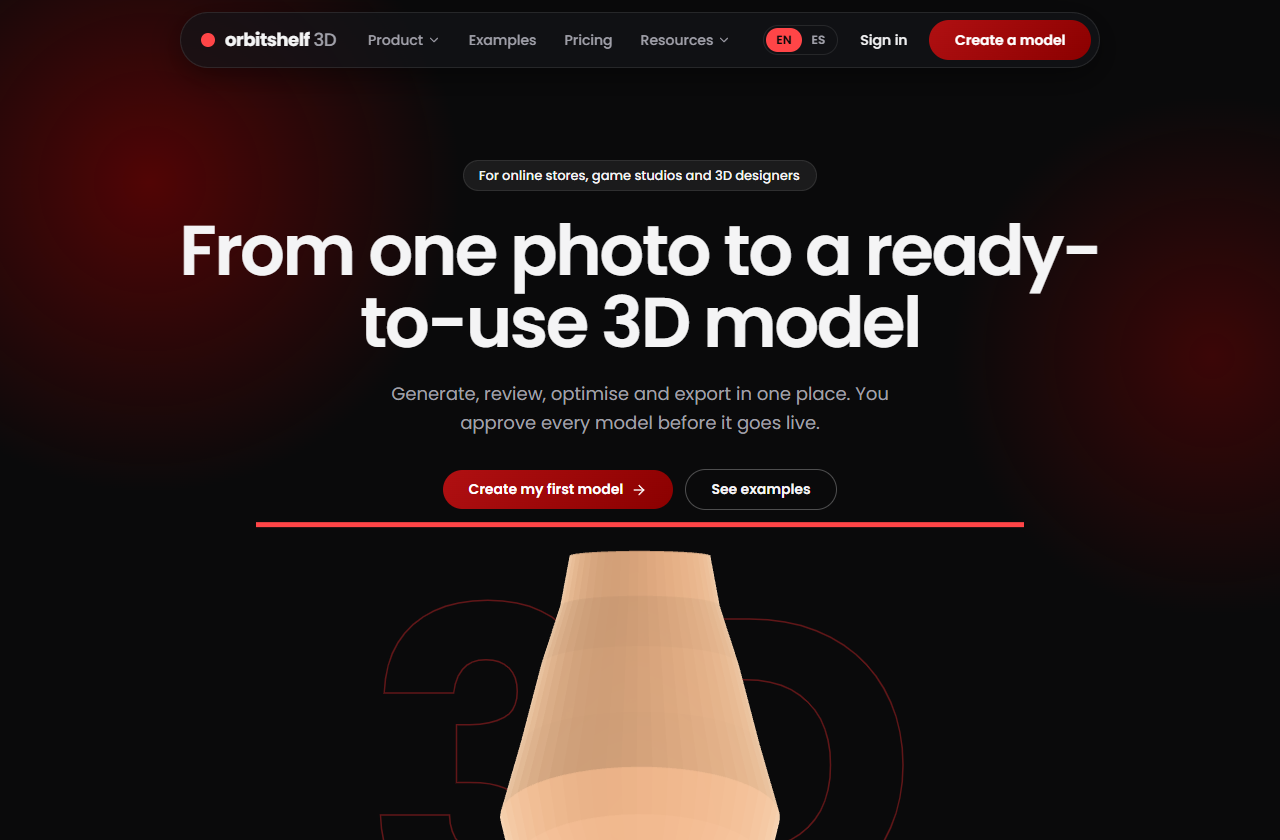
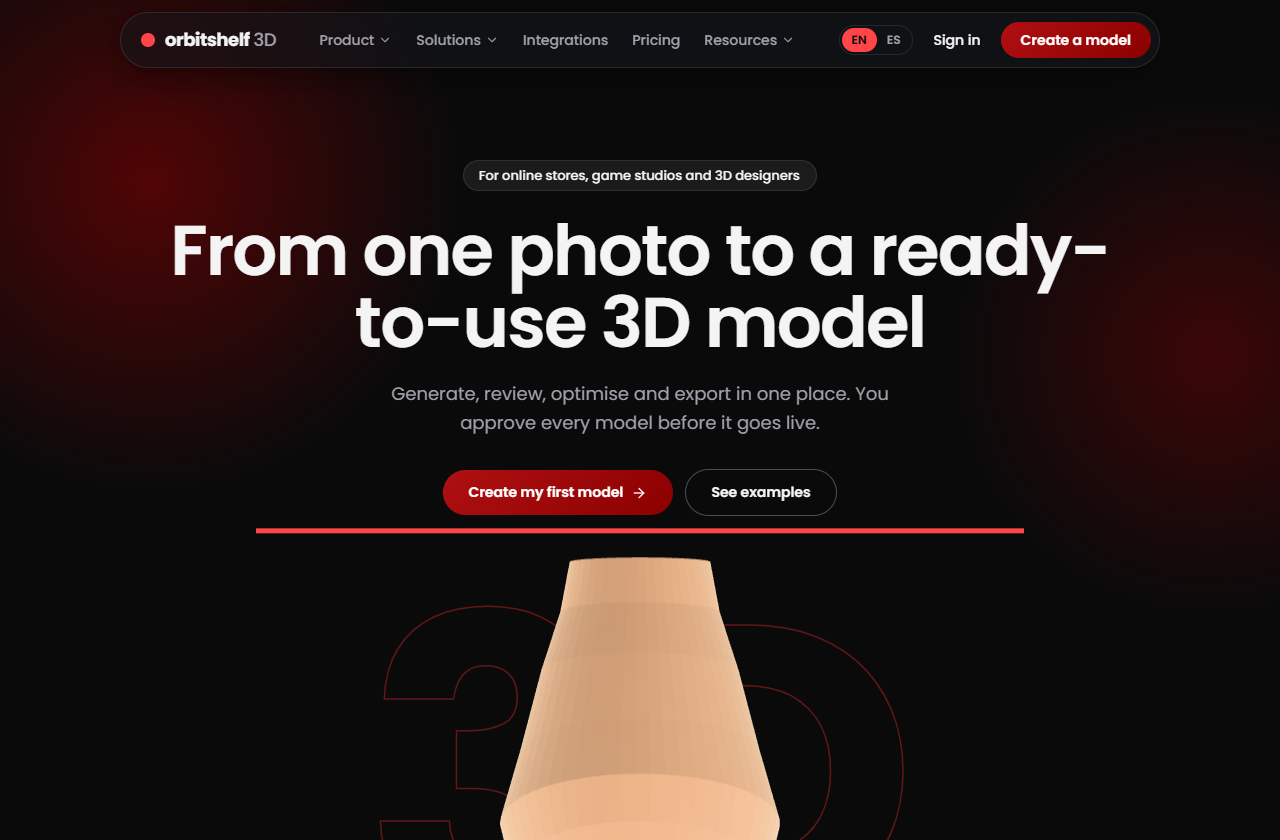
fix: audit fixes before local review
Component CSS moved into a layer so utilities win (pricing cards no longer overlap),
vendor name and cost figures removed from public pages, plan model range built from
enabled engines, Hunyuan face-count add-on priced in, login redirect hardened,
Blender shown as coming soon, local billing in credits, e2e covers navbar and new pages.

diff --git a/src/i18n/dictionaries/es.ts b/src/i18n/dictionaries/es.ts
@@ -431,7 +431,7 @@ export const es: Dictionary = {
         { h: "2. Datos que recopilamos", p: ["Datos de la cuenta: el correo electrónico con el que inicias sesión.", "Contenido que aportas: fotos de productos, descripciones en texto (prompts) para texto a 3D, modelos 3D generados, nombres de productos, SKU, medidas y notas de revisión.", "Registros de uso: intentos de generación, historial de trabajos y un registro de las acciones en tu espacio de trabajo.", "Datos técnicos: una cookie de sesión y registros del servidor, que pueden incluir tu dirección IP, usados para seguridad y prevención de abusos."] },
         { h: "3. Para qué los usamos", p: ["Para prestarte el servicio que solicitas, lo que es necesario para cumplir nuestro acuerdo contigo; para mantener el servicio seguro y prevenir abusos, que es nuestro interés legítimo; y para llevar los registros contables que exija la ley.", "No vendemos tus datos, no los usamos para publicidad ni usamos tus fotos para entrenar modelos de IA."] },
         { h: "4. Cookies", p: ["Usamos una sola cookie estrictamente necesaria que mantiene tu sesión iniciada (os_session, solo HTTP, válida por 7 días). No usamos cookies de analítica ni de publicidad."] },
-        { h: "5. Fotos y proveedor de IA", p: ["Cuando inicias un trabajo de IA, tus fotos (de una a cuatro) se recodifican sin metadatos (incluida la ubicación GPS) y se envían a nuestro proveedor de generación 3D, Sloyd, que las procesa bajo sus propios términos y política de privacidad. Con texto a 3D se envía al mismo proveedor la descripción que escribes; no incluyas en ella datos personales ni confidenciales.", "El proveedor deja el archivo resultante en una dirección web pública y predecible. Copiamos el archivo a almacenamiento privado, pero no debes subir fotos de productos no lanzados o confidenciales."] },
+        { h: "5. Fotos y proveedor de IA", p: ["Cuando inicias un trabajo de IA, tus fotos (de una a cuatro) se recodifican sin metadatos (incluida la ubicación GPS) y se envían a nuestro proveedor de generación 3D, que las procesa bajo sus propios términos y política de privacidad. Con texto a 3D se envía al mismo proveedor la descripción que escribes; no incluyas en ella datos personales ni confidenciales.", "El proveedor deja el archivo resultante en una dirección web pública y predecible. Copiamos el archivo a almacenamiento privado, pero no debes subir fotos de productos no lanzados o confidenciales."] },
         { h: "6. Proveedores y transferencias internacionales", p: ["Usamos proveedores para la generación con IA, el alojamiento y, cuando se activen, el inicio de sesión y la base de datos. Algunos pueden tratar datos fuera de tu país, incluso en Estados Unidos. Cuando la ley lo exige, usamos garantías adecuadas, como cláusulas contractuales tipo. La lista actual de proveedores está disponible a solicitud."] },
         { h: "7. Cuánto tiempo conservamos los datos", p: ["Los datos de la cuenta se conservan mientras esté activa. Las fotos y modelos se conservan hasta que los elimines o cierres tu cuenta; eliminar un modelo borra su archivo 3D y su foto de origen de nuestro almacenamiento, pero no las copias que el proveedor de IA conserve según su propia política.", "Los registros de intentos y de facturación se conservan el tiempo que exijan las normas contables y tributarias. Los registros de seguridad se conservan por un periodo limitado."] },
         { h: "8. Tus derechos", p: ["Según dónde vivas, puedes pedir acceder a tus datos, corregirlos, eliminarlos o recibir una copia, y oponerte a su tratamiento o limitarlo. Ya puedes descargar tus modelos y exportar tu historial de trabajos desde el espacio de trabajo.", "Envía tus solicitudes a {email}. Respondemos dentro del plazo que fije la ley aplicable. También puedes reclamar ante tu autoridad de protección de datos."] },

diff --git a/src/i18n/dictionaries/en.ts b/src/i18n/dictionaries/en.ts
@@ -429,7 +429,7 @@ export const en = {
         { h: "2. Data we collect", p: ["Account data: the email address you sign in with.", "Content you provide: product photos, text descriptions (prompts) for text-to-3D, generated 3D models, product names, SKUs, measurements and review notes.", "Usage records: generation attempts, job history and an activity log of actions in your workspace.", "Technical data: a session cookie and server logs, which can include your IP address, used for security and abuse prevention."] },
         { h: "3. Why we use it", p: ["To provide the service you request, which is necessary to perform our agreement with you; to keep the service secure and prevent abuse, which is our legitimate interest; and to keep accounting records where the law requires them.", "We do not sell your data, use it for advertising or use your photos to train AI models."] },
         { h: "4. Cookies", p: ["We use a single strictly necessary cookie that keeps you signed in (os_session, HTTP-only, valid for 7 days). We do not use analytics or advertising cookies."] },
-        { h: "5. Photos and the AI provider", p: ["When you start an AI job, your photos (one to four) are re-encoded without metadata (including GPS location) and sent to our 3D generation provider, Sloyd, which processes them under its own terms and privacy policy. With text-to-3D, the description you write is sent to the same provider instead; do not include personal or confidential information in it.", "The provider makes the resulting file available at a public, predictable web address. We copy the file into private storage, but you should not upload photos of unreleased or confidential products."] },
+        { h: "5. Photos and the AI provider", p: ["When you start an AI job, your photos (one to four) are re-encoded without metadata (including GPS location) and sent to our 3D generation provider, which processes them under its own terms and privacy policy. With text-to-3D, the description you write is sent to the same provider instead; do not include personal or confidential information in it.", "The provider makes the resulting file available at a public, predictable web address. We copy the file into private storage, but you should not upload photos of unreleased or confidential products."] },
         { h: "6. Service providers and international transfers", p: ["We rely on providers for AI generation, hosting and, once enabled, sign-in and database services. Some of them may process data outside your country, including in the United States. Where the law requires it, we use appropriate safeguards such as standard contractual clauses. The current list of providers is available on request."] },
         { h: "7. How long we keep data", p: ["Account data is kept while your account is active. Photos and models are kept until you delete them or close your account; deleting a model removes its 3D file and source photo from our storage, but not copies the AI provider keeps under its own policy.", "Attempt and billing records are kept for as long as accounting and tax law require. Security logs are kept for a limited period."] },
         { h: "8. Your rights", p: ["Depending on where you live, you can ask to access, correct, delete or receive a copy of your data, and to object to or restrict its processing. You can already download your models and export your job history from the workspace.", "Send requests to {email}. We answer within the time limit set by applicable law. You can also complain to your data protection authority."] },

diff --git a/src/content/nav.ts b/src/content/nav.ts
@@ -30,13 +30,13 @@ export const navCopy: Record<Locale, NavCopy> = {
     productItems: [
       { href: "/features/text-to-3d", icon: "text", title: "Texto a 3D", text: "Describe un objeto y obtén un GLB con textura" },
       { href: "/features/image-to-3d", icon: "image", title: "Imagen a 3D", text: "De una foto de tu producto a un modelo que se gira" },
-      { href: "/features/multi-image-to-3d", icon: "images", title: "Varias imágenes a 3D", text: "De 2 a 4 vistas para que la espalda no se adivine" },
+      { href: "/features/multi-image-to-3d", icon: "images", title: "Varias imágenes a 3D", text: "De 1 a 4 vistas, para adivinar menos de la espalda" },
       { href: "/how-it-works", icon: "review", title: "Revisar y exportar", text: "Malla, versiones y descarga en GLB, OBJ o STL" },
     ],
     solutionItems: [
       { href: "/solutions/stores", icon: "store", title: "Tiendas", text: "Tu producto en 3D sin contratar a un modelador" },
       { href: "/solutions/games", icon: "game", title: "Juegos", text: "Del concepto al asset, con la geometría a la vista" },
-      { href: "/solutions/design", icon: "design", title: "Diseño 3D", text: "Parte de un boceto o un GLB y sigue en tu programa" },
+      { href: "/solutions/design", icon: "design", title: "Diseño 3D", text: "Parte de una descripción o un GLB y sigue en tu programa" },
     ],
   },
   en: {
@@ -49,13 +49,13 @@ export const navCopy: Record<Locale, NavCopy> = {
     productItems: [
       { href: "/features/text-to-3d", icon: "text", title: "Text to 3D", text: "Describe an object and get a textured GLB" },
       { href: "/features/image-to-3d", icon: "image", title: "Image to 3D", text: "From one product photo to a model you can spin" },
-      { href: "/features/multi-image-to-3d", icon: "images", title: "Multi-image to 3D", text: "2 to 4 views so the back is not guessed" },
+      { href: "/features/multi-image-to-3d", icon: "images", title: "Multi-image to 3D", text: "1 to 4 views, so less of the back is guessed" },
       { href: "/how-it-works", icon: "review", title: "Review and export", text: "Mesh, versions and download as GLB, OBJ or STL" },
     ],
     solutionItems: [
       { href: "/solutions/stores", icon: "store", title: "Stores", text: "Your product in 3D without hiring a modeler" },
       { href: "/solutions/games", icon: "game", title: "Games", text: "From concept to asset, with the geometry in plain sight" },
-      { href: "/solutions/design", icon: "design", title: "3D design", text: "Start from a sketch or a GLB and carry on in your software" },
+      { href: "/solutions/design", icon: "design", title: "3D design", text: "Start from a description or a GLB and carry on in your software" },
     ],
   },
 };

diff --git a/src/components/marketing-shell.tsx b/src/components/marketing-shell.tsx
@@ -58,7 +58,7 @@ export function MarketingShell({
   const createHref = localePath(locale, "/dashboard/create");
 
   const resourceLinks = [
-    { href: "/examples", title: dict.nav.examples, text: locale === "es" ? "Cómo se ve el flujo, de la foto al modelo" : "How the flow looks, from photo to model" },
+    { href: "/examples", title: dict.nav.examples, text: locale === "es" ? "Muestras interactivas de demostración, no resultados de IA" : "Interactive demo samples, not AI results" },
     { href: "/resources", title: dict.nav.guides, text: dict.nav.guidesDesc },
     { href: "/resources/faq", title: dict.nav.faq, text: dict.nav.faqDesc },
     { href: "/resources/glb-export-and-shopify", title: dict.nav.docs, text: dict.nav.docsDesc },
@@ -290,12 +290,16 @@ export function MarketingShell({
             <FooterColumn
               title={dict.footer.product}
               links={[
+                { href: localePath(locale, "/features"), label: nav.allFeatures },
                 ...nav.productItems.map((i) => ({ href: localePath(locale, i.href), label: i.title })),
                 { href: localePath(locale, "/integrations"), label: nav.integrations },
                 { href: localePath(locale, "/pricing"), label: dict.nav.pricing },
               ]}
             />
-            <FooterColumn title={nav.footerSolutions} links={nav.solutionItems.map((i) => ({ href: localePath(locale, i.href), label: i.title }))} />
+            <FooterColumn
+              title={nav.footerSolutions}
+              links={[{ href: localePath(locale, "/solutions"), label: nav.allSolutions }, ...nav.solutionItems.map((i) => ({ href: localePath(locale, i.href), label: i.title }))]}
+            />
             <FooterColumn
               title={dict.footer.resources}
               links={[

diff --git a/src/lib/provider/registry.ts b/src/lib/provider/registry.ts
@@ -77,6 +77,8 @@ const ENGINES: EngineDefinition[] = [
       const lines: PriceLine[] = [{ code: "generation", usd: 0.375 }];
       if (q.texture !== "none") lines.push({ code: "texture", usd: 0.15 });
       if (q.photoCount >= 2) lines.push({ code: "multi_view", usd: 0.15 });
+      // The adapter always sends face_count, which the vendor lists as a paid add-on: priced in until an invoice says otherwise.
+      lines.push({ code: "detail", usd: 0.15 });
       return lines;
     },
     fal: {
@@ -336,8 +338,13 @@ export const priceOf = (engine: EngineDefinition, q: PriceQuery) => {
 
 export type { TextureResolution };
 
-/** What the plan cards use to translate credits into models: a low-cost engine and a high-quality one, with textures and one photo. */
+/**
+ * What the plan cards use to translate credits into models: the cheapest and the dearest path among the engines that are
+ * switched on (lifecycle), with textures and one photo. Disabled engines never widen the range the public page promises.
+ */
 export function planReference() {
-  const credits = (id: string) => creditsFor(priceOf(getEngine(id)!, { mode: "image", photoCount: 1, texture: "1k" }).usd);
-  return { economy: credits("fal-rodin-2.5-fast"), premium: credits("fal-rodin-2.5") };
+  const live = ENGINES.filter((e) => engineEnabled(e));
+  const pool = live.length ? live : ENGINES;
+  const credits = pool.map((e) => creditsFor(priceOf(e, { mode: "image", photoCount: 1, texture: "1k" }).usd));
+  return { economy: Math.min(...credits), premium: Math.max(...credits) };
 }

diff --git a/src/app/[locale]/compare/ai-3d-vs-manual/page.tsx b/src/app/[locale]/compare/ai-3d-vs-manual/page.tsx
@@ -1,5 +1,4 @@
 import { notFound } from "next/navigation";
-import { ArrowUpRight } from "lucide-react";
 import { isLocale, localePath } from "@/i18n/config";
 import { getDictionary } from "@/i18n/get-dictionary";
 import { buildPageMetadata } from "@/lib/seo";
@@ -75,22 +74,6 @@ export default async function ComparePage({ params }: Props) {
               <Checklist items={c.whenManual} />
             </div>
           </Card>
-
-          <article className="card reveal flex flex-col justify-between gap-6 p-7 md:col-span-6 md:flex-row md:items-end md:p-8">
-            <div className="max-w-2xl space-y-3">
-              <h2 className="text-lg font-semibold leading-tight">{c.sourceTitle}</h2>
-              <p className="text-sm leading-relaxed text-muted">{c.sourceText}</p>
-            </div>
-            <a
-              href="https://www.sloyd.ai/api/pricing"
-              target="_blank"
-              rel="noopener noreferrer"
-              className="inline-flex shrink-0 items-center gap-1.5 self-start text-sm font-semibold text-fg underline underline-offset-4 hover:text-accent md:self-auto"
-            >
-              {c.sourceLink}
-              <ArrowUpRight className="h-4 w-4 shrink-0" aria-hidden="true" />
-            </a>
-          </article>
         </div>
       </Section>
 

diff --git a/tests/unit/engines.test.ts b/tests/unit/engines.test.ts
@@ -74,9 +74,10 @@ describe("engine registry", () => {
 
   it("prices match what was read at each provider's page", () => {
     const usd = (id: string, q: Parameters<typeof priceOf>[1]) => priceOf(getEngine(id)!, q).usd;
-    expect(usd("fal-hunyuan-3.1-pro", { mode: "image", photoCount: 1, texture: "none" })).toBe(0.375);
-    expect(usd("fal-hunyuan-3.1-pro", { mode: "image", photoCount: 1, texture: "1k" })).toBe(0.525);
-    expect(usd("fal-hunyuan-3.1-pro", { mode: "multi-image", photoCount: 3, texture: "1k" })).toBe(0.675);
+    // Hunyuan Pro: +0.15 for face_count, which the adapter always sends (vendor add-on, priced in until an invoice says otherwise).
+    expect(usd("fal-hunyuan-3.1-pro", { mode: "image", photoCount: 1, texture: "none" })).toBe(0.525);
+    expect(usd("fal-hunyuan-3.1-pro", { mode: "image", photoCount: 1, texture: "1k" })).toBe(0.675);
+    expect(usd("fal-hunyuan-3.1-pro", { mode: "multi-image", photoCount: 3, texture: "1k" })).toBe(0.825);
     expect(usd("fal-rodin-2.5", { mode: "multi-image", photoCount: 4, texture: "1k" })).toBe(0.4);
     expect(usd("fal-tripo-h3.1", { mode: "image", photoCount: 1, texture: "none" })).toBe(0.2);
     expect(usd("fal-tripo-h3.1", { mode: "image", photoCount: 1, texture: "1k" })).toBe(0.3);

diff --git a/src/app/globals.css b/src/app/globals.css
@@ -74,9 +74,9 @@ h3,
 :focus-visible {
   outline: 2px solid var(--accent);
   outline-offset: 2px;
-  border-radius: 6px;
 }
 
+@layer components {
 .container-page {
   width: 100%;
   max-width: 1120px;
@@ -97,14 +97,12 @@ h3,
 .pill-nav {
   background: rgb(18 19 23 / 0.72);
   backdrop-filter: blur(24px) saturate(140%);
-  -webkit-backdrop-filter: blur(24px) saturate(140%);
   border: 1px solid var(--line);
   box-shadow: 0 8px 32px rgb(0 0 0 / 0.45);
 }
 .mega-panel {
   background: rgb(18 19 23 / 0.88);
   backdrop-filter: blur(34px) saturate(140%);
-  -webkit-backdrop-filter: blur(34px) saturate(140%);
   border: 1px solid var(--line);
   box-shadow: 0 24px 64px rgb(0 0 0 / 0.55);
 }
@@ -113,7 +111,6 @@ h3,
   .mega-panel {
     background: #14141a;
     backdrop-filter: none;
-    -webkit-backdrop-filter: none;
   }
 }
 
@@ -210,6 +207,8 @@ h3,
     linear-gradient(rgb(239 43 45 / 0.5) 1px, transparent 1px),
     linear-gradient(90deg, rgb(239 43 45 / 0.5) 1px, transparent 1px);
   background-size: 22px 22px;
+}
+
 }
 
 /* ---------- Motion ---------- */

diff --git a/src/components/plan-cards.tsx b/src/components/plan-cards.tsx
@@ -42,9 +42,12 @@ function PlanCard({ tier, plan, copy, locale, reference, cta, variant }: { tier:
   const count = (n: number) => n.toLocaleString(locale === "es" ? "es-CL" : "en-US");
   const credits = `${count(step.credits)} ${copy.credits}`;
   const multi = tier.steps.length > 1;
-  const models = extra.modelsLine
-    .replace("{low}", count(Math.floor(step.credits / reference.premium)))
-    .replace("{high}", count(Math.floor(step.credits / reference.economy)));
+  const low = Math.floor(step.credits / reference.premium);
+  const high = Math.floor(step.credits / reference.economy);
+  // With one engine switched on the range collapses to a single number: say "about N", not "between N and N".
+  const models = (low === high ? extra.modelsLine.replace("entre {low} y {high}", "unos {low}").replace("about {low} to {high}", "about {low}") : extra.modelsLine)
+    .replace("{low}", count(low))
+    .replace("{high}", count(high));
 
   return (
     <div className={`card flex flex-col p-2 ${LAYOUT[variant].card}`} data-testid={`plan-${tier.id}`}>

diff --git a/tests/e2e/app.spec.ts b/tests/e2e/app.spec.ts
@@ -1026,6 +1026,8 @@ test.describe("OrbitShelf 3D — Full E2E, API, Security, i18n, and Accessibilit
       "/solutions", "/solutions/stores", "/solutions/games", "/solutions/design", "/integrations",
       "/es", "/es/examples", "/es/pricing", "/es/features", "/es/solutions/stores", "/es/integrations",
     ];
+    // Scroll-reveal fades cards in; axe would read a half-faded card's colour. Reduced motion shows the final state.
+    await page.emulateMedia({ reducedMotion: "reduce" });
     for (const width of [1280, 375]) {
       await page.setViewportSize({ width, height: 840 });
       for (const p of paths) {

diff --git a/tests/unit/benchmark.test.ts b/tests/unit/benchmark.test.ts
@@ -59,9 +59,9 @@ describe("plan", () => {
     expect(plan.items.map((i) => [i.engine.id, i.mode, i.usd])).toEqual([
       ["fal-rodin-2.5-fast", "multi-image", 0.1],
       ["fal-trellis-1", "image", 0.02],
-      ["fal-hunyuan-3.1-pro", "multi-image", 0.675],
+      ["fal-hunyuan-3.1-pro", "multi-image", 0.825],
     ]);
-    expect(plan.totalUsd).toBe(0.795);
+    expect(plan.totalUsd).toBe(0.945);
   });
 
   it("lists what an engine cannot do instead of hiding it", () => {

diff --git a/src/content/integrations.ts b/src/content/integrations.ts
@@ -12,7 +12,7 @@ export type IntegrationId = "embed" | "shopify" | "blender" | "api" | "mcp" | "w
 export const INTEGRATION_ORDER: { id: IntegrationId; status: IntegrationStatus }[] = [
   { id: "embed", status: "available" },
   { id: "shopify", status: "soon" },
-  { id: "blender", status: "testing" },
+  { id: "blender", status: "soon" },
   { id: "api", status: "testing" },
   { id: "mcp", status: "testing" },
   { id: "woocommerce", status: "planned" },
